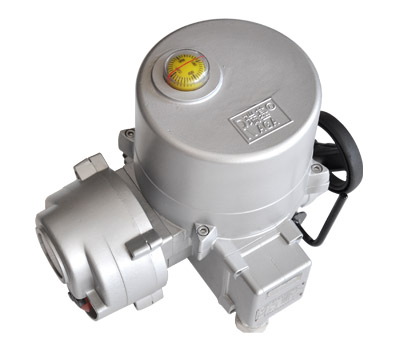
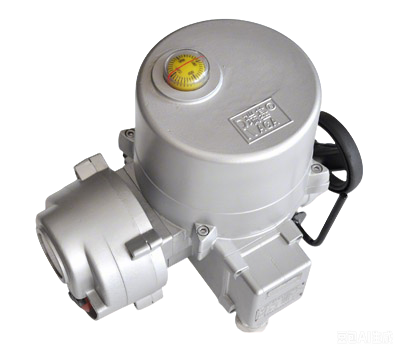
替换RJ开关型和配套系列图片，添加产品详情页多图展示功能

diff --git a/product-detail.html b/product-detail.html
@@ -107,7 +107,8 @@
   <div class="container">
     <div class="product-detail-grid">
       <div class="product-detail-image" id="detail-image">
-        <img src="" alt="">
+        <div class="main-image"><img src="" alt="" id="main-product-image"></div>
+        <div class="image-thumbnails" id="image-thumbnails"></div>
       </div>
       <div class="product-detail-info">
         <h1 id="detail-name">产品名称</h1>
@@ -203,9 +204,29 @@
   el = document.getElementById('detail-breadcrumb');
   if (el) el.textContent = product.name;
 
-  const img = document.querySelector('#detail-image img');
-  img.src = product.image;
-  img.alt = product.name;
+  // Render product images (gallery support)
+  const mainImg = document.getElementById('main-product-image');
+  mainImg.src = product.image;
+  mainImg.alt = product.name;
+
+  // Render image thumbnails if product has multiple images
+  const thumbnailsContainer = document.getElementById('image-thumbnails');
+  if (thumbnailsContainer && product.images && product.images.length > 0) {
+    thumbnailsContainer.innerHTML = '';
+    product.images.forEach(function(imgSrc, index) {
+      var thumb = document.createElement('img');
+      thumb.src = imgSrc;
+      thumb.alt = product.name + ' - 图片' + (index + 1);
+      if (index === 0) thumb.classList.add('active');
+      thumb.addEventListener('click', function() {
+        mainImg.src = imgSrc;
+        // Update active state
+        thumbnailsContainer.querySelectorAll('img').forEach(function(el) { el.classList.remove('active'); });
+        thumb.classList.add('active');
+      });
+      thumbnailsContainer.appendChild(thumb);
+    });
+  }
 
   // --- Render product detail (desc + specs + downloads + name) with i18n support ---
   function renderProductDetail() {

diff --git a/css/style.css b/css/style.css
@@ -1429,3 +1429,79 @@ a { color: inherit; }
   opacity: 1;
   transform: translateX(-50%) translateY(0);
 }
+
+/* ===== Product Image Gallery ===== */
+.product-detail-image {
+  display: flex;
+  flex-direction: column;
+  gap: 16px;
+}
+.main-image {
+  width: 100%;
+  height: 400px;
+  display: flex;
+  align-items: center;
+  justify-content: center;
+  background: var(--gray-100);
+  border-radius: var(--radius);
+  overflow: hidden;
+}
+.main-image img {
+  max-width: 100%;
+  max-height: 100%;
+  object-fit: contain;
+}
+.image-thumbnails {
+  display: flex;
+  gap: 12px;
+  justify-content: center;
+  flex-wrap: wrap;
+}
+.image-thumbnails img {
+  width: 80px;
+  height: 80px;
+  object-fit: cover;
+  border-radius: var(--radius-sm);
+  cursor: pointer;
+  border: 2px solid transparent;
+  transition: all 0.3s;
+}
+.image-thumbnails img:hover {
+  border-color: var(--primary);
+  transform: translateY(-2px);
+}
+.image-thumbnails img.active {
+  border-color: var(--primary);
+  box-shadow: 0 2px 8px rgba(231, 0, 51, 0.3);
+}
+
+/* Fix: Use ID selectors for gallery */
+#main-product-image {
+  max-width: 100%;
+  max-height: 100%;
+  object-fit: contain;
+}
+#image-thumbnails {
+  display: flex;
+  gap: 12px;
+  justify-content: center;
+  flex-wrap: wrap;
+  margin-top: 16px;
+}
+#image-thumbnails img {
+  width: 80px;
+  height: 80px;
+  object-fit: cover;
+  border-radius: var(--radius-sm);
+  cursor: pointer;
+  border: 2px solid transparent;
+  transition: all 0.3s;
+}
+#image-thumbnails img:hover {
+  border-color: var(--primary);
+  transform: translateY(-2px);
+}
+#image-thumbnails img.active {
+  border-color: var(--primary);
+  box-shadow: 0 2px 8px rgba(231, 0, 51, 0.3);
+}

diff --git a/products.html b/products.html
@@ -174,7 +174,7 @@
         <span data-i18n="scroll.rj">RJ 开关型</span>
       </a>
       <a href="product-detail.html?id=rjm" class="product-scroll-item">
-        <img src="images/20130702091501103.jpg" alt="配套">
+        <img src="images/rjm-1.png" alt="配套">
         <span data-i18n="scroll.rjm">配套系列</span>
       </a>
       <a href="product-detail.html?id=gear" class="product-scroll-item">
@@ -402,7 +402,7 @@
     </div>
     <div class="products-grid">
       <a href="product-detail.html?id=rjm" class="product-card" data-category="配套">
-        <div class="product-card-image"><img src="images/20130702091501103.jpg" alt="配套系列"></div>
+        <div class="product-card-image"><img src="images/rjm-1.png" alt="配套系列"></div>
         <div class="product-card-body">
           <span class="product-tag" data-i18n="tag.hiprec">高精度</span>
           <h3 data-i18n="name.rjm">配套系列</h3>

diff --git a/js/products-data.js b/js/products-data.js
@@ -206,7 +206,8 @@ const PRODUCTS = {
   "rjm": {
     id: "rjm",
     name: "RJM调节型",
-    image: "images/20130702091501103.jpg",
+    image: "images/rjm-1.png",
+    images: ["images/rjm-1.png", "images/rjm-2.png", "images/rjm-3.png"],
     category: "配套",
     tag: "高精度",
     desc: "RJM调节型智能执行机构，支持4-20mA模拟量信号控制，调节精度高，响应速度快。适用于需要对阀门开度进行精确控制的工艺流程。",
